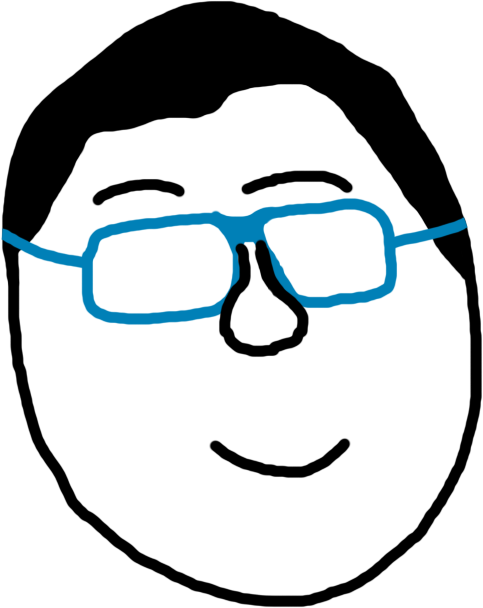
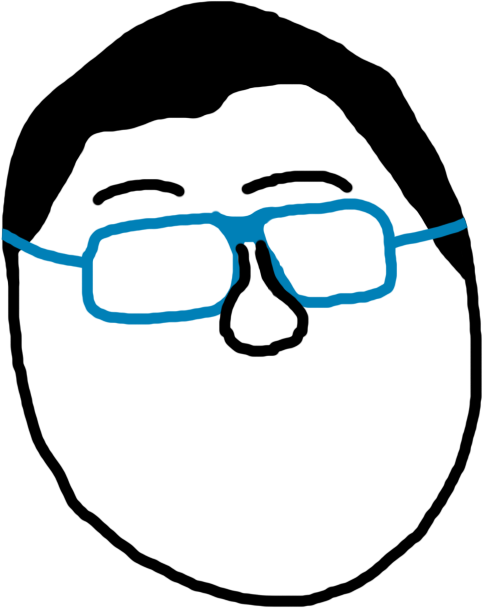
refactor: separate smile from face

Changed region(s): [[0.4348, 0.7188, 0.7453, 0.8125]]

diff --git a/js/enzo-face.js b/js/enzo-face.js
@@ -4,10 +4,12 @@ const ctx = canvas.getContext('2d');
 
 const faceImg = new Image(),
 	eyeLeftImg = new Image(),
-	eyeRightImg = new Image();
+	eyeRightImg = new Image(),
+	smileImg = new Image();
 faceImg.src = '/assets/face/face.png';
 eyeLeftImg.src = '/assets/face/eye-left.png';
 eyeRightImg.src = '/assets/face/eye-right.png';
+smileImg.src = '/assets/face/smile.png';
 
 let mouseX, mouseY, blinking;
 document.addEventListener('mousemove', (event) => {
@@ -68,6 +70,8 @@ function draw(mouseX, mouseY, blink, love) {
 		faceWidth,
 		faceHeight,
 	);
+
+	ctx.drawImage(smileImg, 208, 437, smileImg.width, smileImg.height);
 
 	if (blink) return;
 
